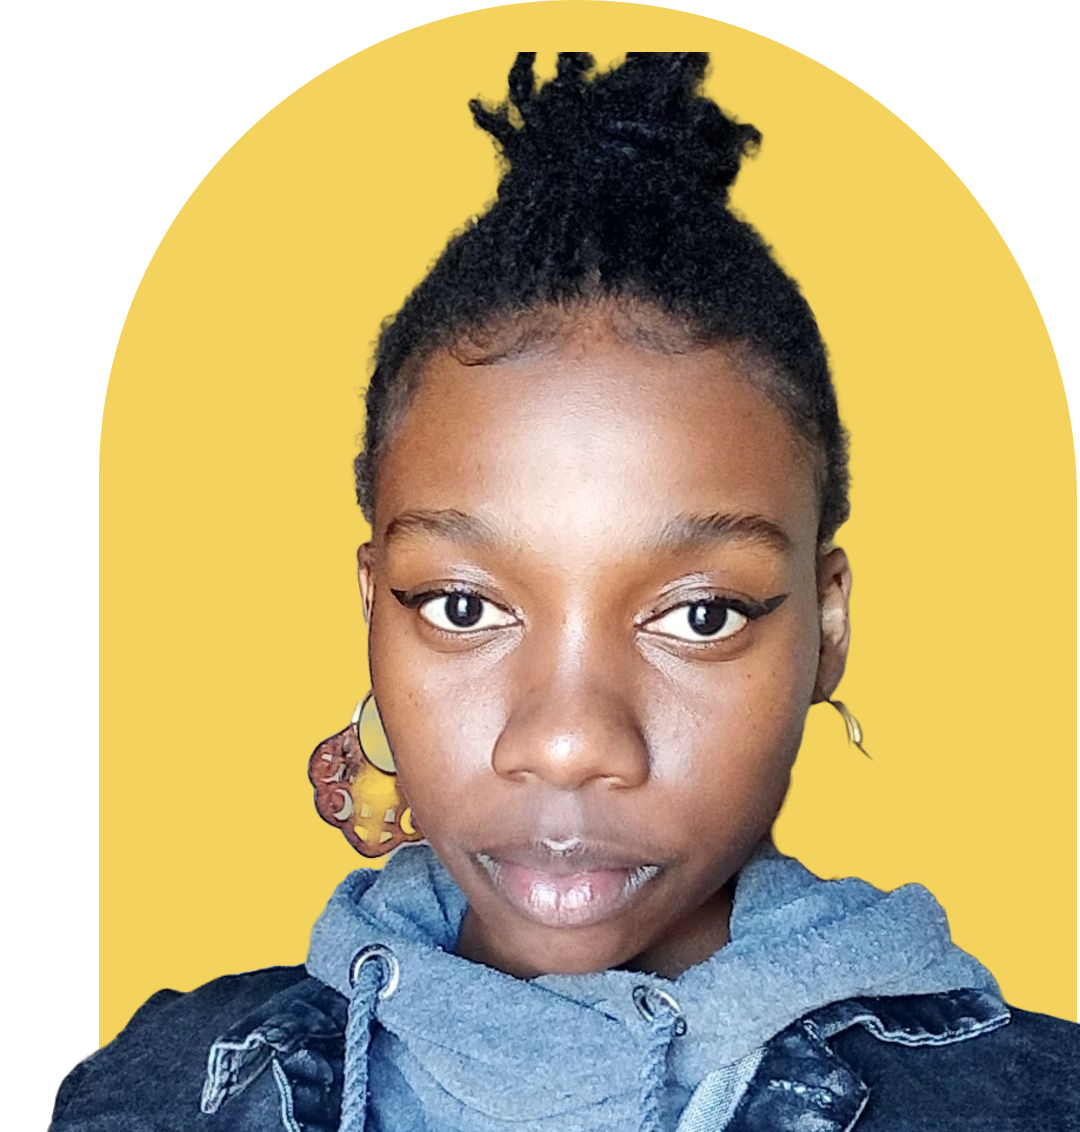
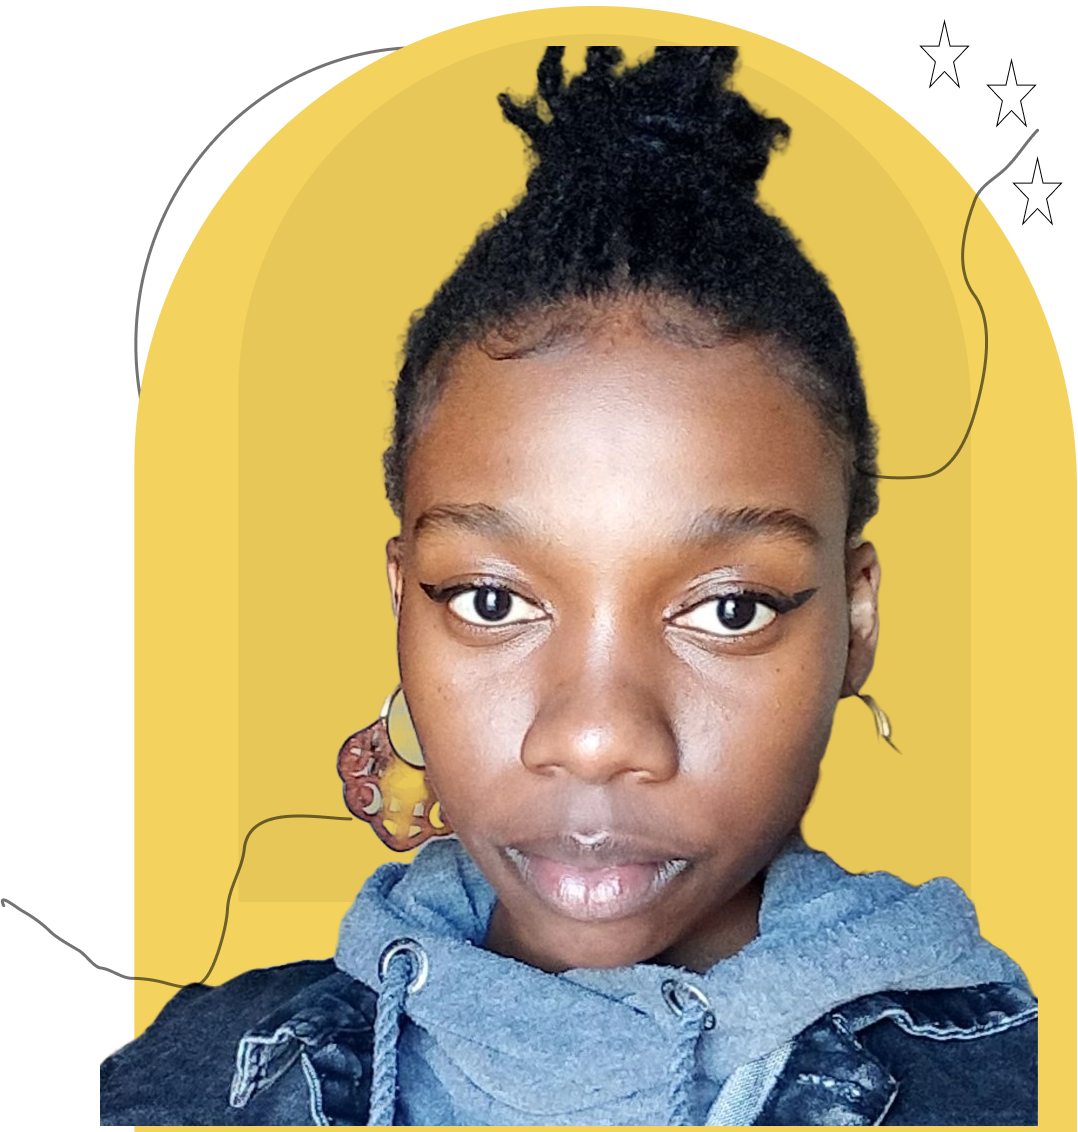
different profile picture

diff --git a/first deliverable/cv.html b/first deliverable/cv.html
@@ -23,7 +23,7 @@
   <div class="intro">
   <aside>
     <h1>Abigail Gumbo <i class="fa-solid fa-hand fa-lg" style="color: #efdb06;"></i></h1>
-    <h4>Full stack developer</h4>
+    <h4><i class="fa-solid fa-minus" style="color: #1b1c1d;"></i>Full stack developer</h4>
     <p>I am a full stack developer for both web<br>
        and mobile applications </p><br>
        <button class="cbutton" type="button">Say hello <i class="fa-regular fa-paper-plane fa-sm" style="color: #fafcff;"></i></i></button>
@@ -42,10 +42,11 @@
 <aside>
   <h3>About Me</h3>
   <br>
+
 <p>i am a full stack flutter developer<br>
    and user interface designer.<br>
    simple but creative is my motto,<br> 
-   which you will see through out my work.
+    you will see it through out my work.
 </p>
 <br>
 <button class="white button" type="button">Download my CV <i class="fa-regular fa-file-lines" style="color: #000000;"></i></button>

diff --git a/first deliverable/cvstylesheet.css b/first deliverable/cvstylesheet.css
@@ -73,7 +73,10 @@
   .intro p {
     font-size: large;
   }
-
+.intro img{
+  border: none;
+  background-size: cover;
+}
   .cbutton {
    padding: 1%;
    font-size: large;
